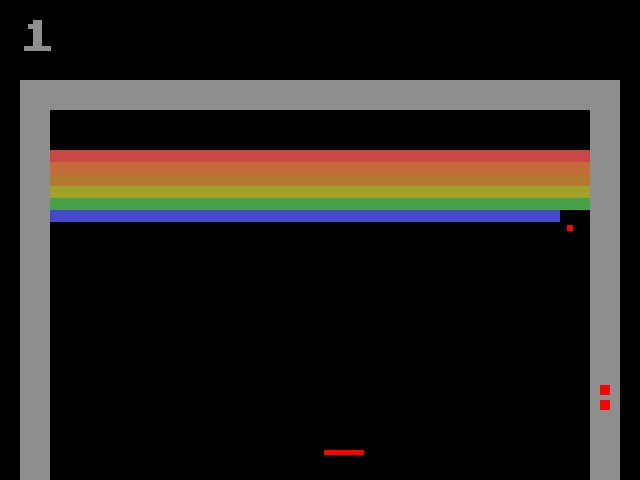
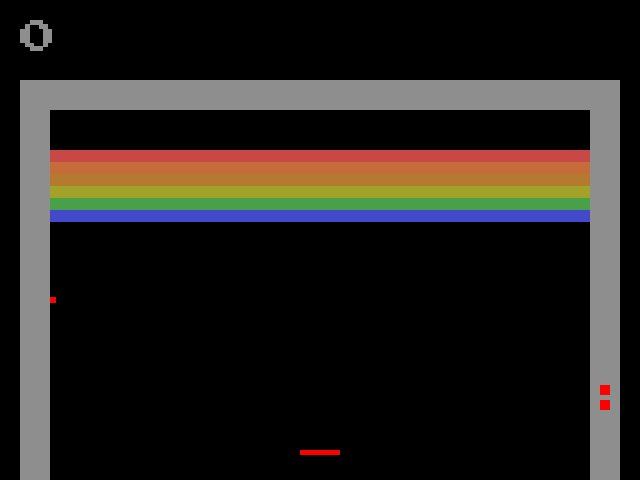
merge

Changed region(s): [[0.0312, 0.0312, 0.0938, 0.125], [0.875, 0.4375, 0.9375, 0.5], [0.4688, 0.9375, 0.5625, 0.9688]]

diff --git a/breakout.py b/breakout.py
@@ -25,6 +25,111 @@
 
 import math,pygame,sys,shutil,getpass
 from pygame.locals import *
+import torch
+import torch.nn as nn
+import torch.optim as optim
+import torch.nn.functional as F
+import random
+from collections import deque
+from torchvision.transforms import Compose, Grayscale, Resize, ToTensor
+
+# Replay memory capacity
+N = 1000
+
+# Exploration rate (epsilon)
+epsilon = 1.0
+epsilon_decay = 0.99
+epsilon_min = 0.01
+
+# Discount factor (gamma)
+gamma = 0.99
+
+# Define Q-network
+class QNetwork(nn.Module):
+    def __init__(self, input_size, output_size):
+        super(QNetwork, self).__init__()
+        self.fc1 = nn.Linear(input_size, 24)
+        self.fc2 = nn.Linear(24, 24)
+        self.fc3 = nn.Linear(24, output_size)
+
+    def forward(self, x):
+        x = F.relu(self.fc1(x))
+        x = F.relu(self.fc2(x))
+        return self.fc3(x)
+
+# Initialize replay memory D
+D = deque(maxlen=N)
+
+# Preprocess state function
+preprocess = Compose([
+    Grayscale(),
+    Resize((81, 81)),
+    ToTensor()
+])
+
+# Episode and time steps
+M = 100
+T = 100
+
+# Define action and state sizes
+action_size = 9
+state_size = 81
+
+# Create Q-network
+Q = QNetwork(state_size, action_size)
+Q_target = QNetwork(state_size, action_size)
+optimizer = optim.Adam(Q.parameters(), lr=0.001)
+
+# Move Q-network to GPU if available
+device = torch.device("cuda" if torch.cuda.is_available() else "cpu")
+Q.to(device)
+Q_target.to(device)
+
+# Copy weights from Q to Q_target
+Q_target.load_state_dict(Q.state_dict())
+
+def select_action(state):
+    if random.random() <= epsilon:
+        return random.randint(0, action_size - 1)
+    else:
+        state = torch.tensor(state).unsqueeze(0).to(device)
+        with torch.no_grad():
+            q_values = Q(state)
+        return torch.argmax(q_values).item()
+
+def update_Q_network():
+    if len(D) < batch_size:
+        return
+
+    # Sample random minibatch from replay memory
+    minibatch = random.sample(D, batch_size)
+    states, actions, rewards, next_states = zip(*minibatch)
+
+    states = torch.tensor(states).to(device)
+    actions = torch.tensor(actions).unsqueeze(1).to(device)
+    rewards = torch.tensor(rewards).to(device)
+    next_states = torch.tensor(next_states).to(device)
+
+    # Calculate target Q-values
+    with torch.no_grad():
+        q_values_next = Q_target(next_states).max(1)[0]
+        targets = rewards + gamma * q_values_next
+
+    # Calculate current Q-values
+    q_values = Q(states).gather(1, actions)
+
+    # Update Q-network
+    loss = F.mse_loss(q_values, targets.unsqueeze(1))
+    optimizer.zero_grad()
+    loss.backward()
+    optimizer.step()
+
+    # Update target network
+    Q_target.load_state_dict(Q.state_dict())
+
+# Initialize sequence s1 = [1]
+s = [1]
+
 
 pygame.init()
 fpsClock = pygame.time.Clock()
@@ -83,13 +188,12 @@ class Paddle: #class for paddle vars
 class Ball: #class for ball vars
     x = 0
     y = 0
-    remaining = 3
+    remaining = 1
     xPos = 1 #amount increasing by for x. adjusted for speed
     yPos = 1
     adjusted = False #says wether the xPos and yPos have been adjusted for speed
     speed = 5
     collisions = 0
-    alive = False
     moving = False
     def adjust(self): #adjusts the x and y being added to the ball to make the hypotenuse the ball speed
         tSlope = math.sqrt(self.xPos**2 + self.yPos**2)
@@ -249,10 +353,11 @@ def game(score,paddle,ball,board,wall1): #The game itself
                         paddle.direction = 'none'
           
         #update display
-        pygame.image.save(screen,'temp.jpeg') 
         pygame.display.update()
-       
-        fpsClock.tick(30)
+        pixels = pygame.surfarray.array3d(screen)
+        tensor = torch.from_numpy(pixels)
+        #print(tensor.shape)
+        fpsClock.tick(50)
     return score
 def get_highscore(score):
     place = 20
@@ -439,6 +544,7 @@ if __name__ == '__main__':
             ball = Ball()
             while ball.remaining > 0:
                 score = game(score,paddle,ball,board,wall1)
+                
                 if ball.remaining == 0:
                     for x in range(16):
                         for y in range(12):
@@ -455,6 +561,7 @@ if __name__ == '__main__':
                         board = new_board()
                         while ball.remaining > 0:
                             score = game(score,paddle,ball,board,wall1)
+                            print(score)
                             if ball.remaining == 0:
                                 for x in range(16):
                                     for y in range(12):
